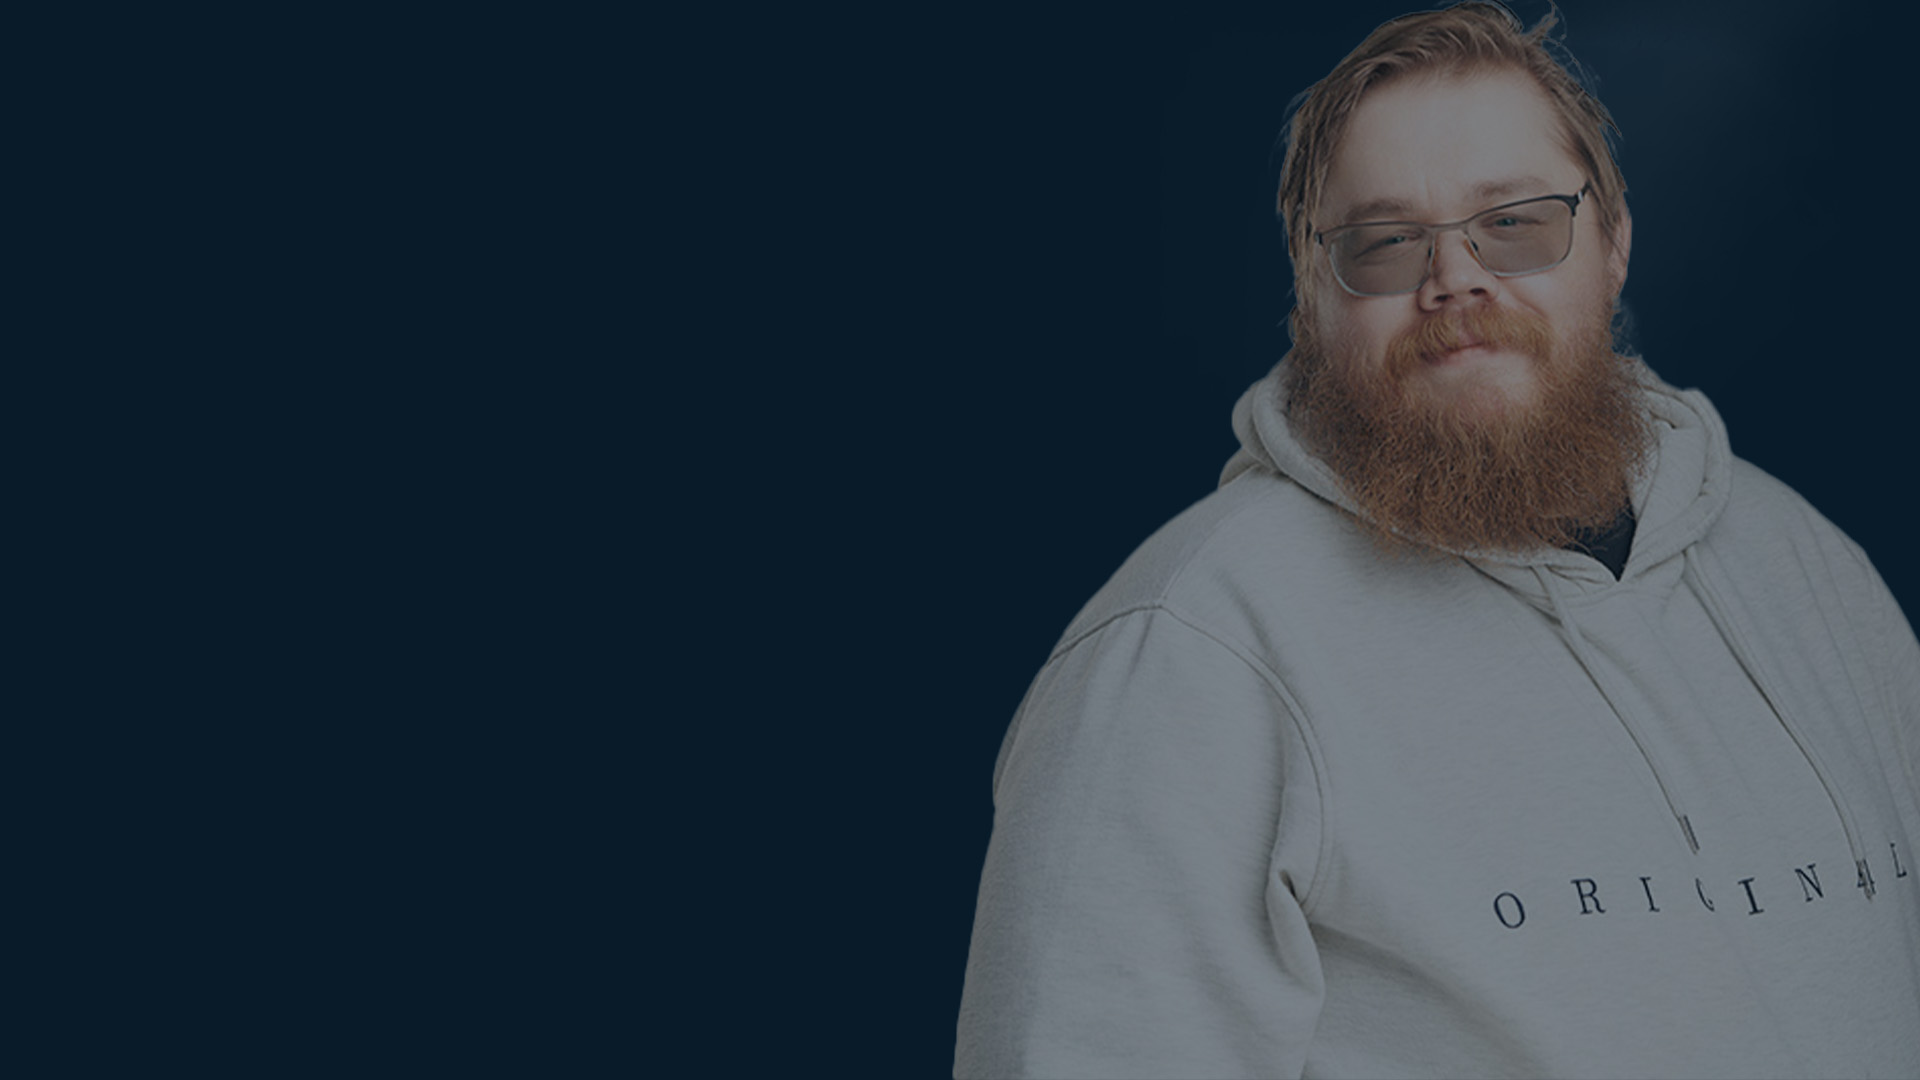
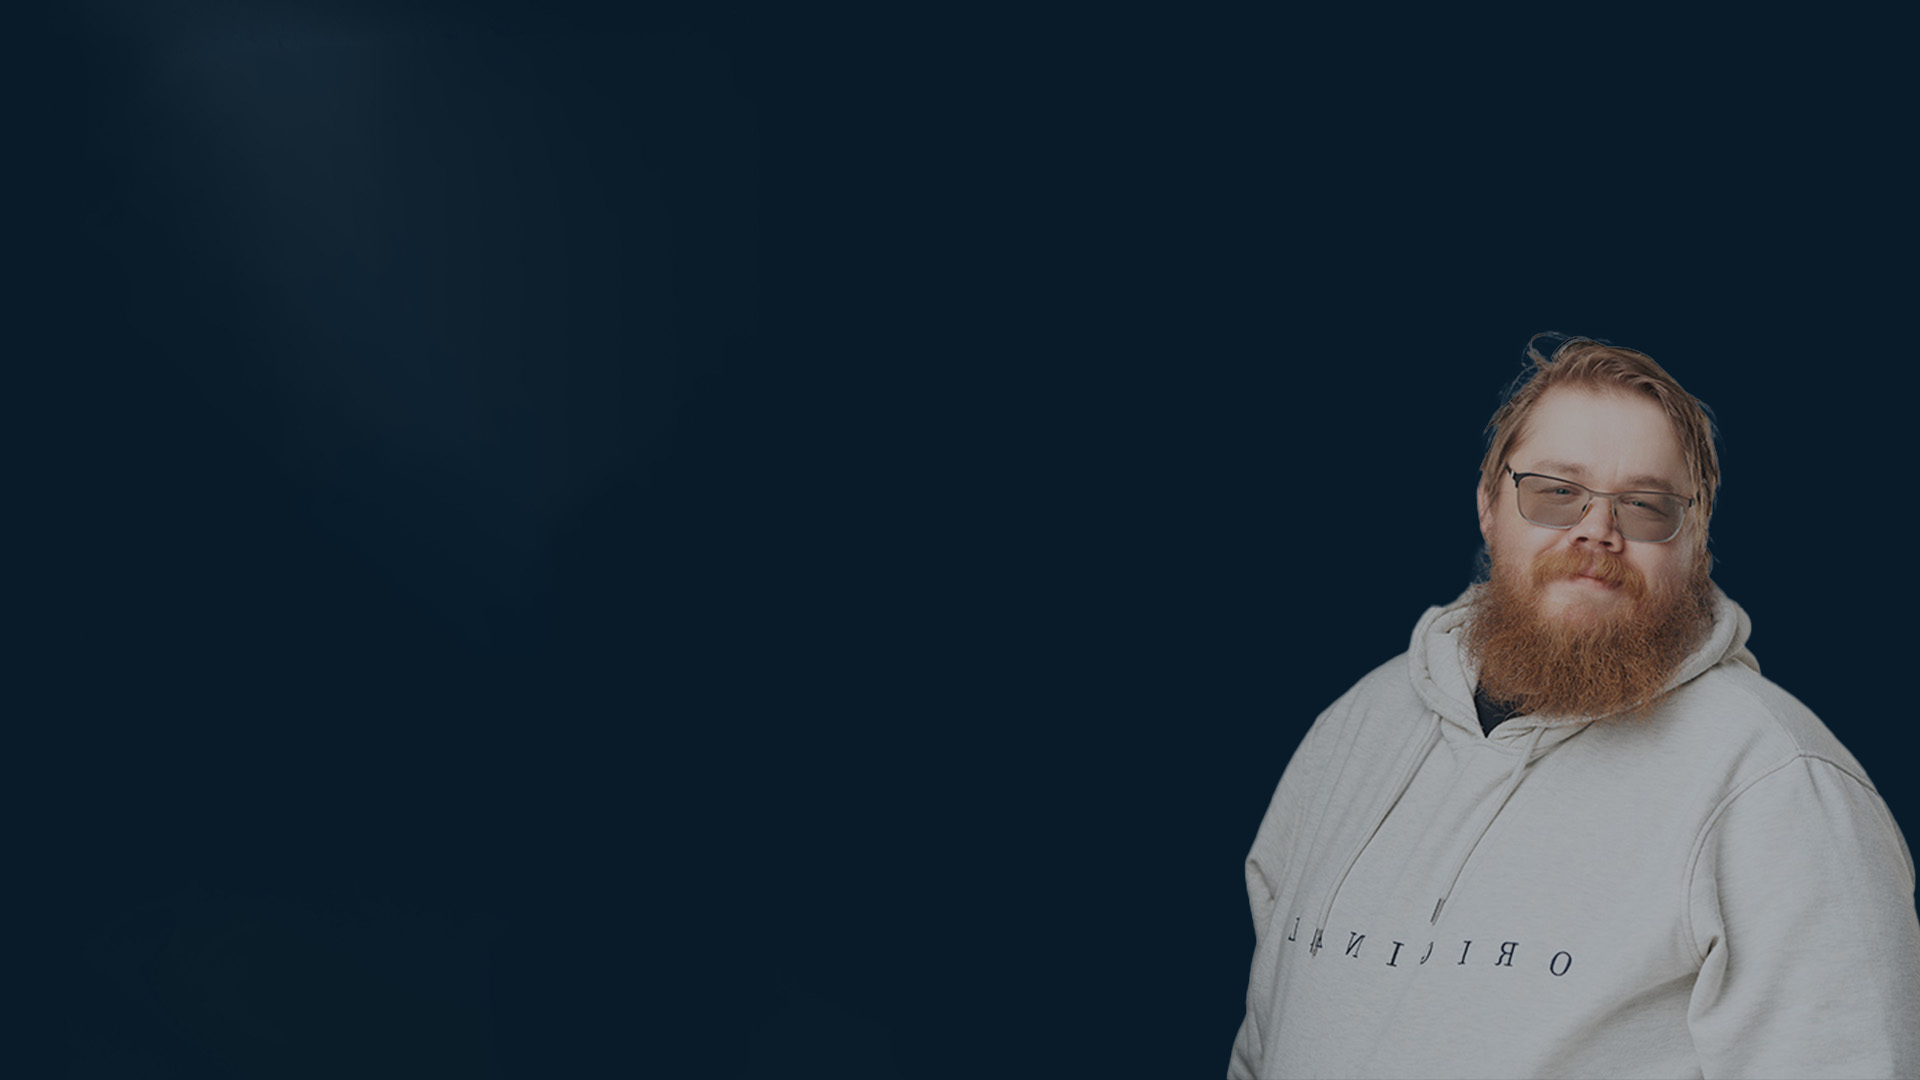
muutoksia

diff --git a/css/style.css b/css/style.css
@@ -80,7 +80,7 @@ section {
     display: flex;
     align-items: center;
     padding: 0 9%;
-    background: url(/images/home.jpg) no-repeat;
+    background: url(/images/home3.jpg) no-repeat;
     background-size: cover;
     background-position: center;
 }
